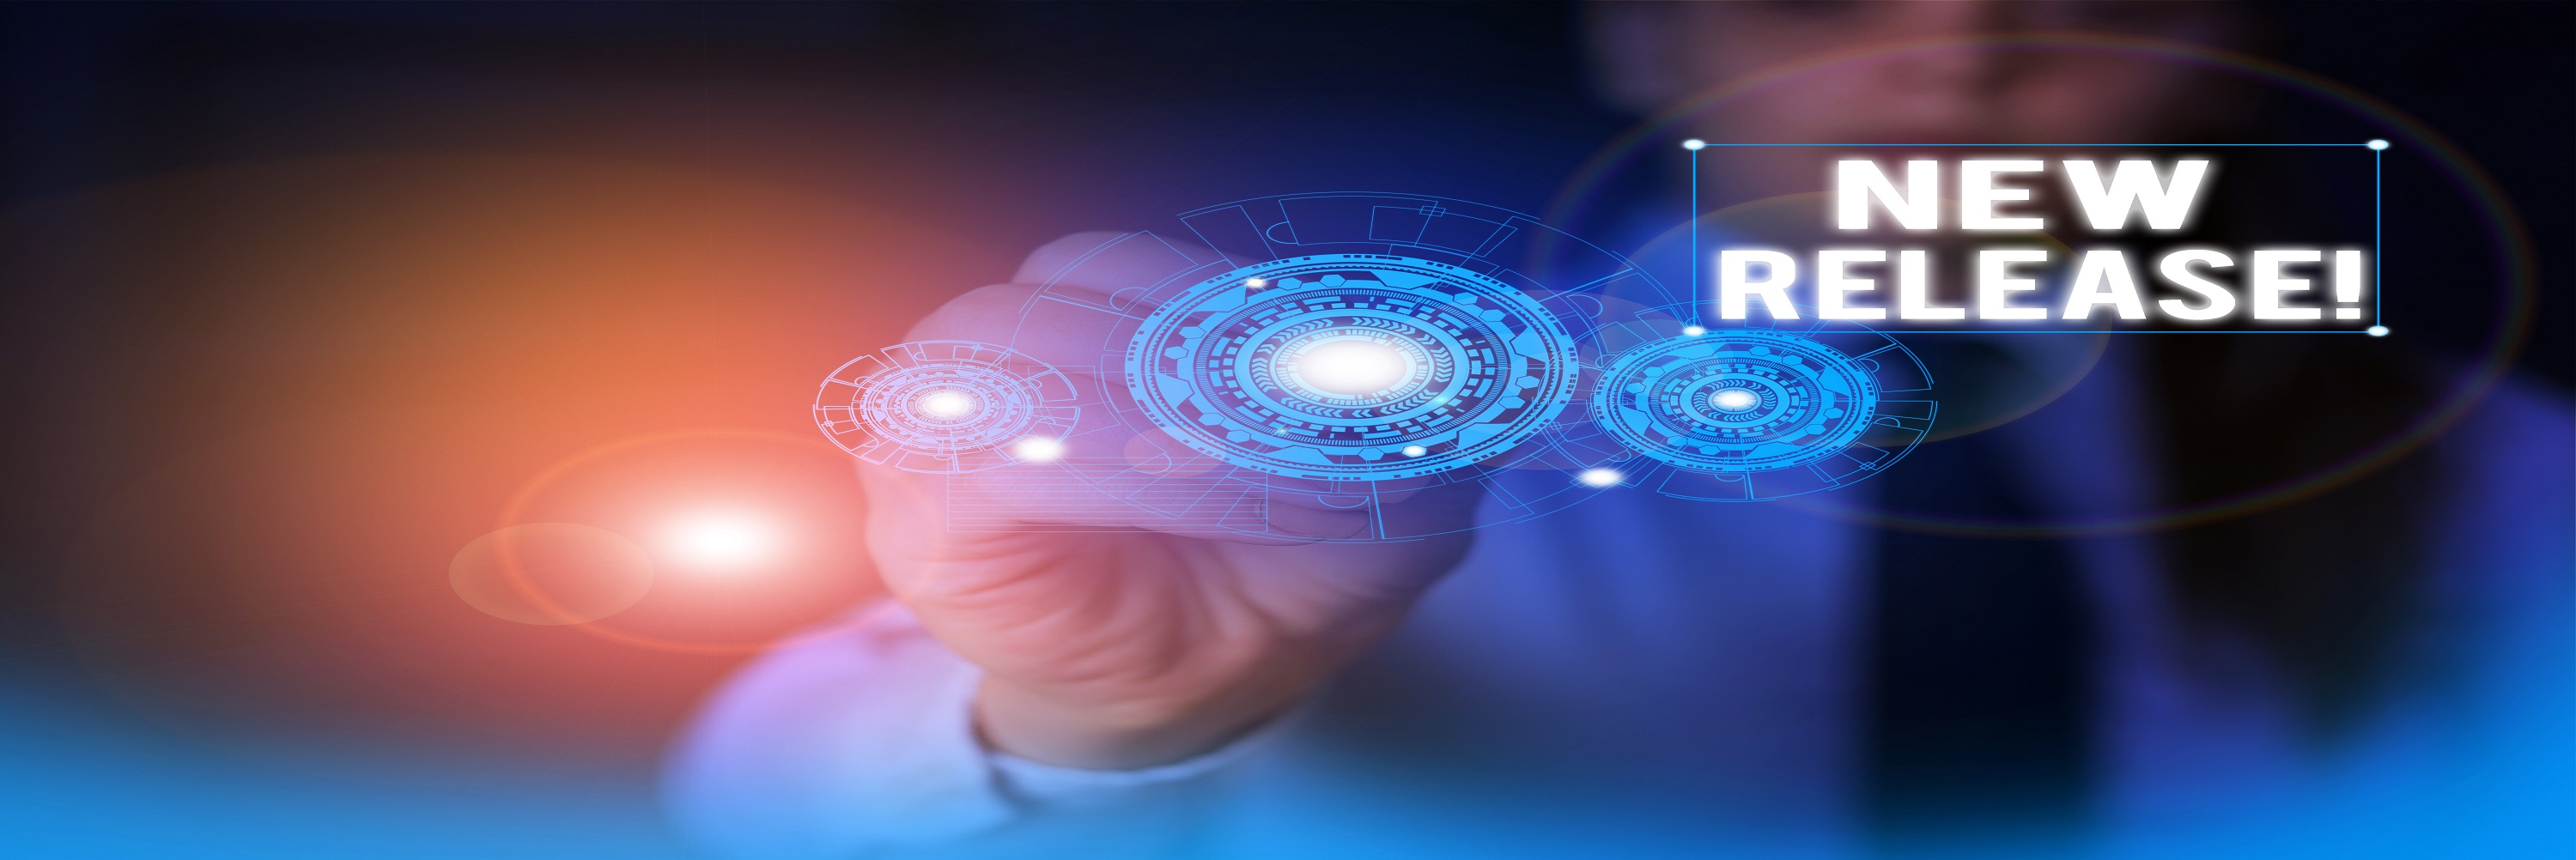
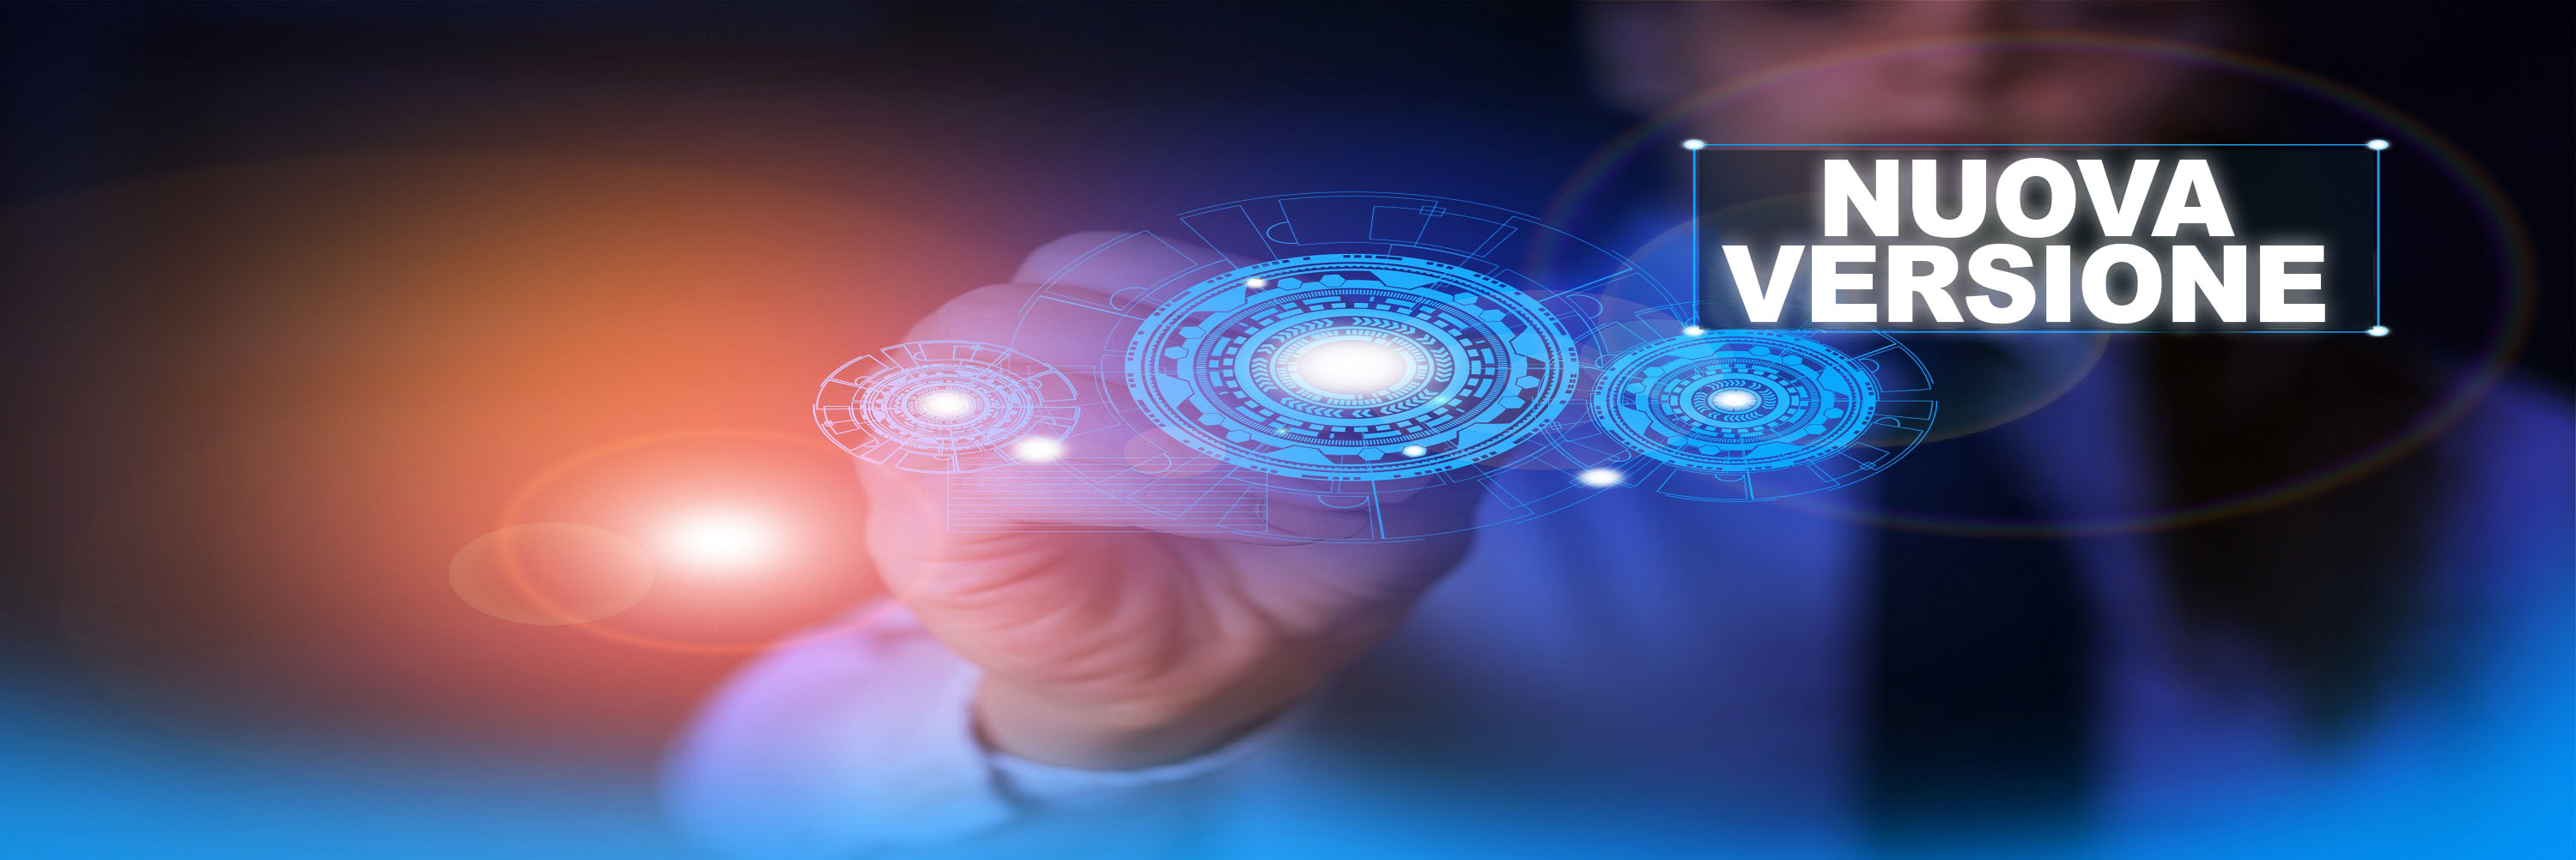
Updated by task 'AUTO_HANDOFF_PRIORITY_1776973053224_it-IT' Changes for core/source commit https://git.corp.adobe.com/AdobeDocs/experience-manager-release-information.en/commit/14f4875e58028211bfa93dca5157a4e06884ed03

Changed region(s): [[0.651, 0.1547, 0.93, 0.4022]]

diff --git a/help/using/aem-forms-releases.md b/help/using/aem-forms-releases.md
@@ -4,9 +4,9 @@ description: Ulteriori informazioni su tutte le versioni di AEM Forms e dei pacc
 contentOwner: khsingh
 exl-id: 65cb9c6b-fb3f-4bf1-aa42-2d724914439a
 source-git-commit: 7ec2156ec3af9cdd9d5176a885a6d3b024703c40
-workflow-type: tm+mt
-source-wordcount: '15313'
-ht-degree: 94%
+workflow-type: ht
+source-wordcount: '15310'
+ht-degree: 100%
 
 ---
 
@@ -57,14 +57,14 @@ Questo articolo fornisce informazioni per:
         </a>
       </td>
       <td>
-        <b style="display:block; margin:10px 0;">AEM Forms 6.5 LTS SP2 nei programmi di installazione JEE</b>
+        <b style="display:block; margin:10px 0;">Programmi di installazione per AEM Forms 6.5 LTS SP2 su JEE</b>
         <ul>
-          <li><a href="https://experience.adobe.com/#/downloads/content/software-distribution/en/aem.html?pack[...]0327-1-12345/jboss/aemforms_server_6_6_0_jboss_all_win.zip">Experience Manager 6.5 LTS SP2 Forms Installer per JBoss EAP e Microsoft Windows</a></li>
-          <li><a href="https://experience.adobe.com/#/downloads/content/software-distribution/en/aem.html?pack[...]-1-12345/jboss/aemforms_server_6_6_0_jboss_all_unix.tar.gz">Experience Manager 6.5 LTS SP2 Forms Installer per JBoss EAP e Linux
+          <li><a href="https://experience.adobe.com/#/downloads/content/software-distribution/it/aem.html?pack[…]0327-1-12345/jboss/aemforms_server_6_6_0_jboss_all_win.zip">Programma di installazione Experience Manager 6.5 LTS SP2 Forms per JBoss EAP e Microsoft Windows</a></li>
+          <li><a href="https://experience.adobe.com/#/downloads/content/software-distribution/it/aem.html?pack[…]-1-12345/jboss/aemforms_server_6_6_0_jboss_all_unix.tar.gz">Programma di installazione Experience Manager 6.5 LTS SP2 Forms per JBoss EAP e Linux
 </a></li>
-<li><a href="https://experience.adobe.com/#/downloads/content/software-distribution/en/aem.html?pack[...]ges/cq650/servicepack/fd/adobe-aemfd-linux-pkg-6.1.206.zip">Componente aggiuntivo AEM Forms 6.5 LTS SP2 per Linux®</a></li>
-          <li><a href="https://experience.adobe.com/#/downloads/content/software-distribution/en/aem.html?pack[...]kages/cq650/servicepack/fd/adobe-aemfd-win-pkg-6.1.206.zip">Componente aggiuntivo AEM Forms 6.5 LTS SP2 per Windows</a></li>
-          <li><a href="https://experience.adobe.com/#/downloads/content/software-distribution/en/aem.html?pack[...]kages/cq650/servicepack/fd/adobe-aemfd-osx-pkg-6.1.206.zip">Componente aggiuntivo AEM Forms 6.5 LTS SP2 per macOS X</a></li>
+<li><a href="https://experience.adobe.com/#/downloads/content/software-distribution/it/aem.html?pack[…]ges/cq650/servicepack/fd/adobe-aemfd-linux-pkg-6.1.206.zip">Componente aggiuntivo AEM Forms 6.5 LTS SP2 per Linux®</a></li>
+          <li><a href="https://experience.adobe.com/#/downloads/content/software-distribution/it/aem.html?pack[…]kages/cq650/servicepack/fd/adobe-aemfd-win-pkg-6.1.206.zip">Componente aggiuntivo AEM Forms 6.5 LTS SP2 per Windows</a></li>
+          <li><a href="https://experience.adobe.com/#/downloads/content/software-distribution/it/aem.html?pack[…]kages/cq650/servicepack/fd/adobe-aemfd-osx-pkg-6.1.206.zip">Componente aggiuntivo AEM Forms 6.5 LTS SP2 per macOS X</a></li>
         </ul>
       </td>
       <td>
@@ -83,10 +83,10 @@ Questo articolo fornisce informazioni per:
         </a>
       </td>
       <td>
-        <b style="display:block; margin:10px 0;">AEM Forms 6.5 LTS nei programmi di installazione JEE</b>
+        <b style="display:block; margin:10px 0;">Programmi di installazione per AEM Forms 6.5 LTS su JEE</b>
         <ul>
-          <li><a href="https://experience.adobe.com/#/downloads/content/software-distribution/en/aem.html?pack[...]-2-12345/jboss/aemforms_server_6_6_0_jboss_all_unix.tar.gz">Experience Manager 6.5.1.LTS Forms Installer per JBoss EAP e Linux</a></li>
-          <li><a href="https://experience.adobe.com/#/downloads/content/software-distribution/en/aem.html?pack[...]1218-2-12345/jboss/aemforms_server_6_6_0_jboss_all_win.zip">Experience Manager 6.5.1.LTS Forms Installer per JBoss EAP e Microsoft Windows
+          <li><a href="https://experience.adobe.com/#/downloads/content/software-distribution/it/aem.html?pack[…]-2-12345/jboss/aemforms_server_6_6_0_jboss_all_unix.tar.gz">Programma di installazione Experience Manager 6.5.1.LTS Forms per JBoss EAP e Linux</a></li>
+          <li><a href="https://experience.adobe.com/#/downloads/content/software-distribution/it/aem.html?pack[…]1218-2-12345/jboss/aemforms_server_6_6_0_jboss_all_win.zip">Programma di installazione Experience Manager 6.5.1.LTS Forms per JBoss EAP e Microsoft Windows
 </a></li>
         </ul>
       </td>
@@ -165,7 +165,7 @@ Questo articolo fornisce informazioni per:
       <td>28 gennaio 2026</td>
       <td>
         <a href="https://experienceleague.adobe.com/it/docs/experience-manager-65/content/release-notes/release-notes">
-          Pacchetto del componente aggiuntivo AEM 6.5 Forms Service Pack 24 Forms per AEM 6.5.24.0
+          Pacchetto di componenti aggiuntivi AEM 6.5 Forms Service Pack 24 per AEM 6.5.24.0
         </a>
       </td>
       <td>
@@ -176,19 +176,19 @@ Questo articolo fornisce informazioni per:
       <td>
         <b style="display:block; margin:10px 0;">Programmi di installazione patch per AEM Forms su OSGi</b>
         <ul>
-          <li><a href="https://experience.adobe.com/#/downloads/content/software-distribution/en/aem.html?package=/content/software-distribution/en/details.html/content/dam/aem/public/adobe/packages/cq650/servicepack/fd/adobe-aemfd-linux-pkg-6.0.1452.zip">Pacchetto di componenti aggiuntivi AEM Forms per Linux®</a></li>
-          <li><a href="https://experience.adobe.com/#/downloads/content/software-distribution/en/aem.html?package=/content/software-distribution/en/details.html/content/dam/aem/public/adobe/packages/cq650/servicepack/fd/adobe-aemfd-win-pkg-6.0.1452.zip">Pacchetto di componenti aggiuntivi AEM Forms per Windows</a></li>
-          <li><a href="https://experience.adobe.com/#/downloads/content/software-distribution/en/aem.html?package=/content/software-distribution/en/details.html/content/dam/aem/public/adobe/packages/cq650/servicepack/fd/adobe-aemfd-osx-pkg-6.0.1452.zip">Pacchetto di componenti aggiuntivi AEM Forms per macOS X [2]</a></li>
-          <li><a href="https://experience.adobe.com/#/downloads/content/software-distribution/en/aem.html?package=/content/software-distribution/en/details.html/content/dam/aem/public/adobe/packages/cq650/compatpack/adobe-aemfd-compat-pkg-2.0.52.zip">Pacchetto di compatibilità per AEM Forms</a></li>
+          <li><a href="https://experience.adobe.com/#/downloads/content/software-distribution/it/aem.html?package=/content/software-distribution/it/details.html/content/dam/aem/public/adobe/packages/cq650/servicepack/fd/adobe-aemfd-linux-pkg-6.0.1452.zip">Pacchetto di componenti aggiuntivi AEM Forms per Linux®</a></li>
+          <li><a href="https://experience.adobe.com/#/downloads/content/software-distribution/it/aem.html?package=/content/software-distribution/it/details.html/content/dam/aem/public/adobe/packages/cq650/servicepack/fd/adobe-aemfd-win-pkg-6.0.1452.zip">Pacchetto di componenti aggiuntivi AEM Forms per Windows</a></li>
+          <li><a href="https://experience.adobe.com/#/downloads/content/software-distribution/it/aem.html?package=/content/software-distribution/it/details.html/content/dam/aem/public/adobe/packages/cq650/servicepack/fd/adobe-aemfd-osx-pkg-6.0.1452.zip">Pacchetto di componenti aggiuntivi AEM Forms per macOS X [2]</a></li>
+          <li><a href="https://experience.adobe.com/#/downloads/content/software-distribution/it/aem.html?package=/content/software-distribution/it/details.html/content/dam/aem/public/adobe/packages/cq650/compatpack/adobe-aemfd-compat-pkg-2.0.52.zip">Pacchetto di compatibilità per AEM Forms</a></li>
         </ul>
         <b style="display:block; margin:10px 0;">Programmi di installazione patch per AEM Forms su JEE</b>
         <ul>
-          <li><a href="https://experience.adobe.com/#/downloads/content/software-distribution/en/aem.html?package=/content/software-distribution/en/details.html/content/dam/aem/public/adobe/packages/cq650/servicepack/fd/aemforms-6-5-0-115/jboss/adobe-aem-forms-jee-service-pack-6.5.24.0-win-jboss.zip">JBoss® su Windows</a></li>
-          <li><a href="https://experience.adobe.com/#/downloads/content/software-distribution/en/aem.html?package=/content/software-distribution/en/details.html/content/dam/aem/public/adobe/packages/cq650/servicepack/fd/aemforms-6-5-0-115/jboss/adobe-aem-forms-jee-service-pack-6.5.24.0-linux-jboss.gz">JBoss® su Linux®</a></li>
-          <li><a href="https://experience.adobe.com/#/downloads/content/software-distribution/en/aem.html?package=/content/software-distribution/en/details.html/content/dam/aem/public/adobe/packages/cq650/servicepack/fd/aemforms-6-5-0-115/weblogic/adobe-aem-forms-jee-service-pack-6.5.24.0-win-weblogic.zip">WebLogic su Windows</a></li>
-          <li><a href="https://experience.adobe.com/#/downloads/content/software-distribution/en/aem.html?package=/content/software-distribution/en/details.html/content/dam/aem/public/adobe/packages/cq650/servicepack/fd/aemforms-6-5-0-115/weblogic/adobe-aem-forms-jee-service-pack-6.5.24.0-linux-weblogic.gz">WebLogic su Linux®</a></li>
-          <li><a href="https://experience.adobe.com/#/downloads/content/software-distribution/en/aem.html?package=/content/software-distribution/en/details.html/content/dam/aem/public/adobe/packages/cq650/servicepack/fd/aemforms-6-5-0-115/websphere/adobe-aem-forms-jee-service-pack-6.5.24.0-windows-websphere.zip">WebSphere® su Windows</a></li>
-          <li><a href="https://experience.adobe.com/#/downloads/content/software-distribution/en/aem.html?package=/content/software-distribution/en/details.html/content/dam/aem/public/adobe/packages/cq650/servicepack/fd/aemforms-6-5-0-115/websphere/adobe-aem-forms-jee-service-pack-6.5.24.0-linux-websphere.gz">WebSphere® su Linux®</a>      </li>
+          <li><a href="https://experience.adobe.com/#/downloads/content/software-distribution/it/aem.html?package=/content/software-distribution/it/details.html/content/dam/aem/public/adobe/packages/cq650/servicepack/fd/aemforms-6-5-0-115/jboss/adobe-aem-forms-jee-service-pack-6.5.24.0-win-jboss.zip">JBoss® su Windows</a></li>
+          <li><a href="https://experience.adobe.com/#/downloads/content/software-distribution/it/aem.html?package=/content/software-distribution/it/details.html/content/dam/aem/public/adobe/packages/cq650/servicepack/fd/aemforms-6-5-0-115/jboss/adobe-aem-forms-jee-service-pack-6.5.24.0-linux-jboss.gz">JBoss® su Linux®</a></li>
+          <li><a href="https://experience.adobe.com/#/downloads/content/software-distribution/it/aem.html?package=/content/software-distribution/it/details.html/content/dam/aem/public/adobe/packages/cq650/servicepack/fd/aemforms-6-5-0-115/weblogic/adobe-aem-forms-jee-service-pack-6.5.24.0-win-weblogic.zip">WebLogic su Windows</a></li>
+          <li><a href="https://experience.adobe.com/#/downloads/content/software-distribution/it/aem.html?package=/content/software-distribution/it/details.html/content/dam/aem/public/adobe/packages/cq650/servicepack/fd/aemforms-6-5-0-115/weblogic/adobe-aem-forms-jee-service-pack-6.5.24.0-linux-weblogic.gz">WebLogic su Linux®</a></li>
+          <li><a href="https://experience.adobe.com/#/downloads/content/software-distribution/it/aem.html?package=/content/software-distribution/it/details.html/content/dam/aem/public/adobe/packages/cq650/servicepack/fd/aemforms-6-5-0-115/websphere/adobe-aem-forms-jee-service-pack-6.5.24.0-windows-websphere.zip">WebSphere® su Windows</a></li>
+          <li><a href="https://experience.adobe.com/#/downloads/content/software-distribution/it/aem.html?package=/content/software-distribution/it/details.html/content/dam/aem/public/adobe/packages/cq650/servicepack/fd/aemforms-6-5-0-115/websphere/adobe-aem-forms-jee-service-pack-6.5.24.0-linux-websphere.gz">WebSphere® su Linux®</a>      </li>
         </ul>
         <b style="display:block; margin:10px 0;">SDK</b>
         <ul>
@@ -196,21 +196,21 @@ Questo articolo fornisce informazioni per:
         </ul>
         <b style="display:block; margin:10px 0;">Programmi di installazione di patch a 64 bit per Forms Designer</b>
         <ul>
-          <li><a href="https://experience.adobe.com/#/downloads/content/software-distribution/en/aem.html?package=/content/software-distribution/en/details.html/content/dam/aem/public/adobe/packages/cq650/servicepack/fd/Designer-Patch/sp24_x64/Designer6.5.0_English_Cumulative_QF.msp">Programma di installazione lingua inglese</a> </li>
-          <li><a href="https://experience.adobe.com/#/downloads/content/software-distribution/en/aem.html?package=/content/software-distribution/en/details.html/content/dam/aem/public/adobe/packages/cq650/servicepack/fd/Designer-Patch/sp24_x64/Designer6.5.0_French_Cumulative_QF.msp">Programma di installazione lingua francese</a> </li>
-          <li><a href="https://experience.adobe.com/#/downloads/content/software-distribution/en/aem.html?package=/content/software-distribution/en/details.html/content/dam/aem/public/adobe/packages/cq650/servicepack/fd/Designer-Patch/sp24_x64/Designer6.5.0_German_Cumulative_QF.msp">Programma di installazione lingua tedesca</a> </li>
-          <li><a href="https://experience.adobe.com/#/downloads/content/software-distribution/en/aem.html?package=/content/software-distribution/en/details.html/content/dam/aem/public/adobe/packages/cq650/servicepack/fd/Designer-Patch/sp24_x64/Designer6.5.0_Japanese_Cumulative_QF.msp">Programma di installazione lingua giapponese</a> </li>
-          <li><a href="https://experience.adobe.com/#/downloads/content/software-distribution/en/aem.html?package=/content/software-distribution/en/details.html/content/dam/aem/public/adobe/packages/cq650/servicepack/fd/Designer-Patch/sp24_x64/Designer6.5.0_Spanish_Cumulative_QF.msp">Programma di installazione lingua spagnola</a> </li>
+          <li><a href="https://experience.adobe.com/#/downloads/content/software-distribution/it/aem.html?package=/content/software-distribution/it/details.html/content/dam/aem/public/adobe/packages/cq650/servicepack/fd/Designer-Patch/sp24_x64/Designer6.5.0_English_Cumulative_QF.msp">Programma di installazione lingua inglese</a> </li>
+          <li><a href="https://experience.adobe.com/#/downloads/content/software-distribution/it/aem.html?package=/content/software-distribution/it/details.html/content/dam/aem/public/adobe/packages/cq650/servicepack/fd/Designer-Patch/sp24_x64/Designer6.5.0_French_Cumulative_QF.msp">Programma di installazione lingua francese</a> </li>
+          <li><a href="https://experience.adobe.com/#/downloads/content/software-distribution/it/aem.html?package=/content/software-distribution/it/details.html/content/dam/aem/public/adobe/packages/cq650/servicepack/fd/Designer-Patch/sp24_x64/Designer6.5.0_German_Cumulative_QF.msp">Programma di installazione lingua tedesca</a> </li>
+          <li><a href="https://experience.adobe.com/#/downloads/content/software-distribution/it/aem.html?package=/content/software-distribution/it/details.html/content/dam/aem/public/adobe/packages/cq650/servicepack/fd/Designer-Patch/sp24_x64/Designer6.5.0_Japanese_Cumulative_QF.msp">Programma di installazione lingua giapponese</a> </li>
+          <li><a href="https://experience.adobe.com/#/downloads/content/software-distribution/it/aem.html?package=/content/software-distribution/it/details.html/content/dam/aem/public/adobe/packages/cq650/servicepack/fd/Designer-Patch/sp24_x64/Designer6.5.0_Spanish_Cumulative_QF.msp">Programma di installazione lingua spagnola</a> </li>
         </ul>
       </td>
       <td>
-        <p>Programma di installazione patch AEM Forms OSGI: 6.0.1452<br/><p>Programma di installazione patch AEM Forms JEE: 6-5-0-0115 <br/><p>Pacchetto di compatibilità per AEM Forms: 6.0.1448 <br/></p></td>
+        <p>Programma di installazione patch OSGi per AEM Forms: 6.0.1452<br/><p>Programma di installazione patch JEE per AEM Forms:6-5-0-0115 <br/><p>Pacchetto di compatibilità per AEM Forms: 6.0.1448 <br/></p></td>
     </tr>
     <tr>
       <td>6 giugno 2025</td>
       <td>
         <a href="https://experienceleague.adobe.com/it/docs/experience-manager-65/content/release-notes/release-notes">
-          Pacchetto del componente aggiuntivo AEM 6.5 Forms Service Pack 23 Forms per AEM 6.5.23.0
+          Pacchetto di componenti aggiuntivi AEM 6.5 Forms Service Pack 23 per AEM 6.5.23.0
         </a>
       </td>
       <td>
@@ -493,7 +493,7 @@ Questo articolo fornisce informazioni per:
         </ul>
       </td>
       <td>
-        <p>Programma di installazione completo di AEM Forms JEE: 
+        <p>Programma di installazione completo JEE per AEM Forms: 
     6-5-0-20230913-1-12345 <br/><p>Programma di installazione patch di AEM Forms per JEE: AEMForms-6-5-0-0069<br/><p>Componente aggiuntivo per Pacchetti di AEM Forms: 6.5.18.0 </p></td>
     </tr>
    <tr>
@@ -744,7 +744,7 @@ Questo articolo fornisce informazioni per:
           <li><a href="https://experience.adobe.com/#/downloads/content/software-distribution/en/aem.html?package=/content/software-distribution/en/details.html/content/dam/aem/public/adobe/packages/cq650/servicepack/fd/adobe-aemfd-win-pkg-6.0.566-NPR-37836-B0001.zip">Pacchetto di componenti aggiuntivi AEM Forms per Windows</a></li>
           <li><a href="https://experience.adobe.com/#/downloads/content/software-distribution/en/aem.html?package=/content/software-distribution/en/details.html/content/dam/aem/public/adobe/packages/cq650/servicepack/fd/adobe-aemfd-osx-pkg-6.0.566-NPR-37836-B0001.zip">Pacchetto di componenti aggiuntivi AEM Forms per macOS X [2]</a>      </li>
         </ul>
-        <b style="display:block; margin:10px 0;">Programmi di installazione patch JEE</b>
+        <b style="display:block; margin:10px 0;">Programmi di installazione delle patch JEE</b>
         <ul>
           <li><a href="https://experience.adobe.com/#/downloads/content/software-distribution/en/aem.html?package=/content/software-distribution/en/details.html/content/dam/aem/public/adobe/packages/cq650/servicepack/fd/AEMForms-6-5-0-0038/JBoss/Win/AEMForms-6.5.0-0038_jboss_win.zip">JBoss® su Windows</a></li>
           <li><a href="https://experience.adobe.com/#/downloads/content/software-distribution/en/aem.html?package=/content/software-distribution/en/details.html/content/dam/aem/public/adobe/packages/cq650/servicepack/fd/AEMForms-6-5-0-0038/JBoss/Linux/AEMForms-6.5.0-0038_jboss_linux.tar.gz">JBoss® su Linux®</a></li>
@@ -803,7 +803,7 @@ Questo articolo fornisce informazioni per:
           <li><a href="https://experience.adobe.com/#/downloads/content/software-distribution/en/aem.html?package=/content/software-distribution/en/details.html/content/dam/aem/public/adobe/packages/cq650/compatpack/adobe-aemfd-compat-pkg-2.0.40.zip">Pacchetto di compatibilità per AEM Forms</a></li>
           <li><a href="https://experience.adobe.com/#/downloads/content/software-distribution/en/aem.html?package=/content/software-distribution/en/details.html/content/dam/aem/public/adobe/packages/cq650/featurepack/livecycle-embed-pkg-5.0.18.zip">Pacchetto di incorporamento AEM Forms su JEE</a>      </li>
         </ul>
-        <b style="display:block; margin:10px 0;">Programmi di installazione patch JEE</b>
+        <b style="display:block; margin:10px 0;">Programmi di installazione delle patch JEE</b>
         <ul>
           <li><a href="https://experience.adobe.com/#/downloads/content/software-distribution/en/aem.html?package=/content/software-distribution/en/details.html/content/dam/aem/public/adobe/packages/cq650/servicepack/fd/AEMForms-6-5-0-0032/JBoss/Win/AEMForms-6.5.0-0032_jboss_win.zip">JBoss® su Windows</a></li>
           <li><a href="https://experience.adobe.com/#/downloads/content/software-distribution/en/aem.html?package=/content/software-distribution/en/details.html/content/dam/aem/public/adobe/packages/cq650/servicepack/fd/AEMForms-6-5-0-0032/JBoss/Linux/AEMForms-6.5.0-0032_jboss_linux.tar.gz">JBoss® su Linux®</a></li>
@@ -1031,7 +1031,7 @@ Questo articolo fornisce informazioni per:
   </tbody>
  </table>
 
-`[1]` Contatta il [Supporto Adobe](https://experienceleague.adobe.com/it?support-solution=General&support-tab=homehome?lang=it#support) per ottenere i programmi di installazione per Workbench, Rights Management SDK, Portable Protection Library (PPL) e Enhanced PPL.
+`[1]` Contatta il [Supporto Adobe](https://experienceleague.adobe.com/?support-solution=General&support-tab=homehome?lang=it#support) per ottenere i programmi di installazione per Workbench, Rights Management SDK, Portable Protection Library (PPL) e Enhanced PPL.
 
 `[2]`Il pacchetto dei componenti aggiuntivi AEM [!DNL Forms] per macOS X non è supportato nell’ambiente di produzione e dovrebbe essere utilizzato solo a scopo dimostrativo. La funzionalità PDF Generator non è disponibile nel pacchetto per macOS X.
 

diff --git a/help/using/aem-previous-versions.md b/help/using/aem-previous-versions.md
@@ -4,9 +4,9 @@ description: Scarica i pacchetti della documentazione per le versioni precedenti
 recommendations: noCatalog
 exl-id: c210eadb-58ec-4d40-ba72-5e4b11564510
 source-git-commit: 21b1429ca747fdef9a2d1ffe441c86d07ae281c7
-workflow-type: tm+mt
-source-wordcount: '579'
-ht-degree: 96%
+workflow-type: ht
+source-wordcount: '964'
+ht-degree: 100%
 
 ---
 
@@ -37,8 +37,8 @@ Prima di scaricare il pacchetto, verifica chi utilizzerà il contenuto. Questa d
 
 È necessario un Adobe ID valido:
 
-* Se non disponi di un Adobe ID, puoi crearne uno all’indirizzo http://www.adobe.com/
-Per assistenza nella creazione o nella gestione dell’Adobe ID, [fai riferimento a questa guida](https://helpx.adobe.com/it/manage-account.html)
+* Se non disponi di un Adobe ID, puoi crearne uno all’indirizzo https://www.adobe.com/
+Per assistenza nella creazione o nella gestione dell’Adobe ID, [consulta questa guida](https://helpx.adobe.com/it/manage-account.html)
 
 | Versione di [!DNL Experience Manager] | Collegamento per Software Distribution |
 |:-----------:|:--------------------------------------------------:|
@@ -95,8 +95,8 @@ Per installare un pacchetto di documentazione di versioni precedenti è necessar
 
 1. Nella finestra di dialogo di conferma, seleziona nuovamente **[!UICONTROL Installa]**. L’installazione richiede qualche minuto.
 
-1. In un browser web, avvia la pagina della documentazione. Utilizzando l&#39;esempio di AEM 5.6.1, l&#39;URL sarà: http://localhost:4502/libs/aem-docs/content/en/cq/5-6-1.html.
+1. In un browser web, avvia la pagina della documentazione. Utilizzando l’esempio di AEM 5.6.1, l’URL sarebbe: http://localhost:4502/libs/aem-docs/content/it/cq/5-6-1.html.
 
 ## Chiedere aiuto alla community di [!DNL Experience Manager] {#get-help-from-aem-community}
 
-In caso di domande sull’utilizzo di Experience Manager, Adobe consiglia di [contattare gli esperti della community nei  [!DNL Experience Manager] forum](https://experienceleaguecommunities.adobe.com/t5/adobe-experience-manager/ct-p/adobe-experience-manager-community?profile.language=it).
+In caso di domande sull’utilizzo di Experience Manager, Adobe consiglia di [contattare gli esperti della community nei  [!DNL Experience Manager] forum](https://experienceleaguecommunities.adobe.com/t5/adobe-experience-manager/ct-p/adobe-experience-manager-community).

diff --git a/help/using/install-cfp-aem-forms-jee.md b/help/using/install-cfp-aem-forms-jee.md
@@ -5,7 +5,7 @@ contentOwner: AK
 exl-id: eed01a42-f4ab-4392-8b8e-eb5bbe2410a0
 source-git-commit: 953752d32794cbc32fd6e9747928b809bfe68066
 workflow-type: ht
-source-wordcount: '904'
+source-wordcount: '932'
 ht-degree: 100%
 
 ---
@@ -16,14 +16,14 @@ ht-degree: 100%
 
 Per installare il Cumulative Fix Pack su AEM 6.3 [!DNL Forms JEE], esegui la sequenza di passaggi seguente.
 
-1. Per ottenere il programma di installazione di AEM 6.3 [!DNL Forms JEE] per il CFP, contatta il [Supporto Adobe](https://experienceleague.adobe.com/it?support-solution=General&support-tab=homehome?lang=it#support).
+1. Per ottenere il programma di installazione di AEM 6.3 [!DNL Forms JEE] per il CFP, contatta il [Supporto Adobe](https://experienceleague.adobe.com/?support-solution=General&support-tab=homehome?lang=it#support).
 1. Esegui il programma di installazione del Cumulative Fix Pack e configura AEM [!DNL Forms JEE] come descritto in [Installare e configurare AEM [!DNL Forms JEE]](#install-and-configure-aem-forms-jee).
 1. Installare la versione più recente di AEM CFP 6.3.3.x
 1. Installare il pacchetto del componente aggiuntivo [!DNL Forms] per AEM CFP [6.3.3.x](aem-forms-releases.md)
 
 ### Installare il pacchetto di bundle AEM [!DNL Forms JEE] {#install-aem-forms-jee-bundles-package}
 
-Il pacchetto [!DNL  Forms JEE] per AEM (aemfd-jee-bundles-package-6.3CFP1; versione 1.0.2) fornisce all’[!DNL Forms] utente su AEM [!DNL Forms JEE] gli stessi diritti e le stesse funzionalità disponibili in AEM [!DNL Forms OSGi]. Verifica i pacchetti installati in Gestione pacchetti e installa il pacchetto se non è già installato.
+Il pacchetto [!DNL  Forms JEE] per AEM (aemfd-jee-bundles-package-6.3CFP1; versione 1.0.2) fornisce all’[!DNL Forms] utente su AEM [!DNL Forms JEE] gli stessi diritti e le stesse funzionalità disponibili in AEM [!DNL Forms OSGi]. Verifica i pacchetti installati nel gestore di pacchetti e installa il pacchetto, se non è già installato.
 
 ### Istruzioni aggiuntive per CQ-4208044 {#additional-instructions-for-cq}
 
@@ -42,7 +42,7 @@ Se si utilizza un server [!DNL Forms JEE] per AEM 6.3 con database Oracle, confi
 
 Per installare il Cumulative Fix Pack su AEM 6.2 [!DNL Forms JEE], esegui la sequenza di passaggi seguente.
 
-1. Per ottenere il programma di installazione di AEM 6.2 [!DNL Forms JEE] per il CFP, contatta il [Supporto Adobe](https://experienceleague.adobe.com/it?support-solution=General&support-tab=homehome?lang=it#support).
+1. Per ottenere il programma di installazione di AEM 6.2 [!DNL Forms JEE] per il CFP, contatta il [Supporto Adobe](https://experienceleague.adobe.com/?support-solution=General&support-tab=homehome?lang=it#support).
 1. Esegui il programma di installazione del Cumulative Fix Pack e configura AEM [!DNL Forms JEE] come descritto in [Installare e configurare AEM [!DNL Forms JEE]](install-cfp-aem-forms-jee.md#install-and-configure-aem-forms-jee).
 1. Installa AEM Hotfix 12785 versione 7.0.
 1. Installa AEM 6.2 Service Pack 1.
@@ -51,7 +51,7 @@ Per installare il Cumulative Fix Pack su AEM 6.2 [!DNL Forms JEE], esegui la seq
 
 ### Installare il pacchetto di bundle AEM [!DNL Forms JEE] {#install-aem-forms-jee-bundles-package-1}
 
-Il pacchetto JEE per AEM Forms (aemfd-jee-bundles-package-6.2CFP5; versione 1.0.2) fornisce all’[!DNL Forms] utente su AEM [!DNL Forms JEE] gli stessi diritti e le stesse funzionalità disponibili in AEM [!DNL Forms OSGi]. Verifica i pacchetti installati in Gestione pacchetti e installa il pacchetto se non è già installato.
+Il pacchetto JEE per AEM Forms (aemfd-jee-bundles-package-6.2CFP5; versione 1.0.2) fornisce all’[!DNL Forms] utente su AEM [!DNL Forms JEE] gli stessi diritti e le stesse funzionalità disponibili in AEM [!DNL Forms OSGi]. Verifica i pacchetti installati nel gestore di pacchetti e installa il pacchetto, se non è già installato.
 
 ### Configurazione del timeout per le operazioni a livello di componente (NPR-16774) {#configuring-timeout-for-operations-at-component-level-npr}
 
@@ -67,7 +67,7 @@ Specifica il valore relativo alla chiave in secondi. Esempio: `-Dadobe.component
 
 1. `adobe.all-component.timeout`: sovrascrive i valori di timeout di tutti i servizi del prodotto.
 1. `adobe.<serviceName>.timeout`: sovrascrive il valore di timeout solo per il servizio (&lt;serviceName>) indicato nella chiave. Se il valore è impostato a livello di servizio, questo comando sovrascrive solo il valore di timeout relativo al servizio specificato, se impostato a livello di applicazione.
-1. `adobe.<serviceName>.<operationName>.timeout`: sovrascrive solo il valore di timeout relativo all’operazione del servizio (&lt;serviceName>.&lt;operationName>) indicato nella chiave. Se il valore è impostato a livello di operazione, questo comando sovrascrive solo il valore di timeout relativo al servizio specificato, se impostato a livello di applicazione o di servizio.
+1. `adobe.<serviceName>.<operationName>.timeout`: sovrascrive solo il valore di timeout relativo all’operazione del servizio specifico (&lt;serviceName>.&lt;operationName>) indicato nella chiave. Se il valore è impostato a livello di operazione, questo comando sovrascrive solo il valore di timeout relativo al servizio specificato, se impostato a livello di applicazione o di servizio.
 
 **Esempi:**
 

diff --git a/help/using/aem-releases-updates.md b/help/using/aem-releases-updates.md
@@ -3,9 +3,9 @@ title: Aggiornamenti delle versioni di [!DNL Adobe Experience Manager]
 description: Aggiornamenti delle versioni di [!DNL Adobe Experience Manager]
 exl-id: 103e1c40-364e-450d-92d3-6b952e33d47c
 source-git-commit: 9e7e72d7c0a7126828028b04319f20b64d72e517
-workflow-type: tm+mt
-source-wordcount: '229'
-ht-degree: 85%
+workflow-type: ht
+source-wordcount: '271'
+ht-degree: 100%
 
 ---
 
@@ -29,13 +29,13 @@ Per le offerte On-Premise e Managed Services, l’articolo elenca l’ultimo Cum
 
 ### [!DNL Experience Manager] 6.5 {#aem-65}
 
-Gli aggiornamenti di [!DNL Experience Manager] 6.5 vengono forniti tramite Service Pack e includono nuove funzionalità, miglioramenti e correzioni di bug.
+Gli aggiornamenti del prodotto [!DNL Experience Manager] 6.5 vengono forniti tramite service pack e includono nuove funzioni, miglioramenti e correzioni di bug.
 
 Consulta [[!DNL Experience Manager] 6.5 Ultimo Feature Pack](https://experienceleague.adobe.com/it/docs/experience-manager-65/content/release-notes/release-notes) per informazioni dettagliate sulla versione corrente/più recente. Da questa pagina è possibile anche passare ai dettagli delle versioni precedenti (disposti in ordine cronologico).
 
 ### [!DNL Experience Manager] 6.5 LTS {#aem-65-lts}
 
-Gli aggiornamenti di [!DNL Experience Manager] 6.5 LTS vengono forniti tramite Service Pack e includono nuove funzionalità, miglioramenti e correzioni di bug.
+[!DNL Experience Manager] 6.5 LTS Gli aggiornamenti del prodotto vengono forniti tramite service pack e includono nuove funzioni, miglioramenti e correzioni di bug.
 
 Consulta [[!DNL Experience Manager] 6.5 LTS Ultimo Feature Pack](https://experienceleague.adobe.com/it/docs/experience-manager-65-lts/content/release-notes/release-notes) per informazioni dettagliate sulla versione corrente/più recente.
 

diff --git a/help/using/home.md b/help/using/home.md
@@ -1,10 +1,10 @@
 ---
-title: Aggiornamenti e roadmap della versione di Adobe Experience Manager
+title: Aggiornamenti e roadmap delle versioni di Adobe Experience Manager
 description: Ulteriori informazioni sugli aggiornamenti e sulla roadmap della versione di Adobe Experience Manager.
 exl-id: 861337af-1604-4a8d-aeda-23d80315c544
 source-git-commit: 4390791c7698fb476af4d7f74e6e919875031608
-workflow-type: tm+mt
-source-wordcount: '57'
+workflow-type: ht
+source-wordcount: '56'
 ht-degree: 100%
 
 ---

diff --git a/help/using/TOC.md b/help/using/TOC.md
@@ -11,9 +11,9 @@ feature: Release Information
 role: Leader, Developer, Admin, User
 level: Beginner, Intermediate, Experienced
 source-git-commit: bbca238b99f4c72d65418f224103c37d417793d6
-workflow-type: tm+mt
+workflow-type: ht
 source-wordcount: '63'
-ht-degree: 93%
+ht-degree: 100%
 
 ---
 

diff --git a/help/using/update-release-vehicle-definitions.md b/help/using/update-release-vehicle-definitions.md
@@ -5,12 +5,12 @@ contentOwner: AK
 exl-id: 936b8136-9edb-4e11-9c29-f0c3108c35bd
 source-git-commit: 10cbece451b46e8d4dbf473d728a20994a5e42cd
 workflow-type: ht
-source-wordcount: '740'
+source-wordcount: '743'
 ht-degree: 100%
 
 ---
 
-# Definizioni relative alle versioni di aggiornamento di [!DNL Experience Manager]  {#update-release-vehicle-definitions}
+# Definizioni relative alle versioni di aggiornamento di [!DNL Experience Manager] {#update-release-vehicle-definitions}
 
 Questo documento contiene informazioni dettagliate sui vari tipi di versioni di [!DNL Adobe Experience Manager], tra cui versioni complete, Feature Pack e Service Pack che [!DNL Adobe] distribuisce ai clienti.
 